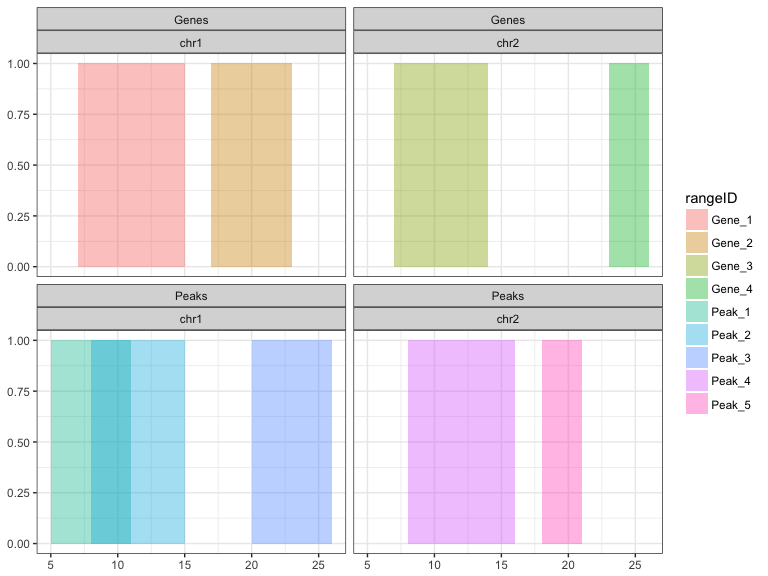
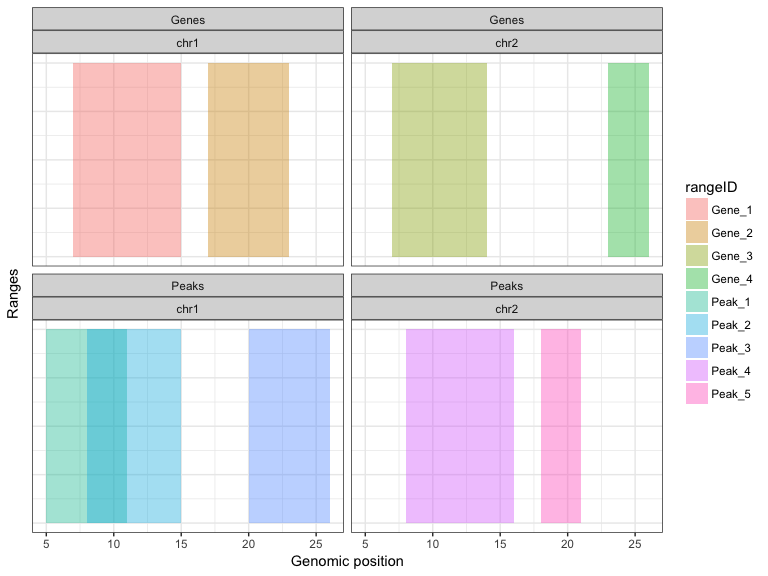
final commit 15th May

diff --git a/combine_tutorial_2017.md b/combine_tutorial_2017.md
@@ -8,10 +8,15 @@ Anna Qualieri
 -   [Load packages](#load-packages)
 -   [Advanced `GenomicRanges`](#advanced-genomicranges)
     -   [Overlaps between two `GRanges` objects](#overlaps-between-two-granges-objects)
+        -   [`findOverlaps()`](#findoverlaps)
+        -   [`countOverlaps()`](#countoverlaps)
     -   [Nearest-methods in `GenomicRanges`](#nearest-methods-in-genomicranges)
+        -   [`nearest()`](#nearest)
+        -   [`distance()`](#distance)
+        -   [`distanceToNearest()`](#distancetonearest)
     -   [`GRangesList`](#grangeslist)
     -   [Subsetting and looping over *GRanges* list](#subsetting-and-looping-over-granges-list)
-        -   [&gt; Challenge](#challenge)
+        -   [Challenge](#challenge)
         -   [Solutions](#solutions)
 -   [`Rtracklayer`](#rtracklayer)
     -   [GTF and GFF](#gtf-and-gff)
@@ -19,7 +24,7 @@ Anna Qualieri
         -   [Solution](#solution)
     -   [Wiggle (WIG) and bigWIG file formats for graphing tracks](#wiggle-wig-and-bigwig-file-formats-for-graphing-tracks)
     -   [`import` only a region of the bigWig file](#import-only-a-region-of-the-bigwig-file)
--   [`lifOver` from different genome releases](#lifover-from-different-genome-releases)
+-   [`liftOver` from different genome releases](#liftover-from-different-genome-releases)
 -   [`Rsamtools`](#rsamtools)
     -   [Input BAM into R](#input-bam-into-r)
     -   [Compute number of reads that falls within 100bp bins](#compute-number-of-reads-that-falls-within-100bp-bins)
@@ -131,7 +136,9 @@ Figure 1 is a simple way of plotting ranges stored into *Granges* object using *
 +     length(genes)))
 > ggplot(data = gr, aes(xmin = start, xmax = end, ymin = 0, 
 +     ymax = 1)) + geom_rect(aes(fill = rangeID), alpha = 0.4) + 
-+     facet_wrap(~Sample + seqnames) + theme_bw()
++     facet_wrap(~Sample + seqnames) + theme_bw() + labs(x = "Genomic position", 
++     y = "Ranges") + theme(axis.ticks.y = element_blank(), 
++     axis.text.y = element_blank())
 ```
 
 ![Graphic representation of the GRanges objects created above.](combine_tutorial_2017_files/figure-markdown_github/unnamed-chunk-6-1.png)
@@ -167,11 +174,11 @@ Overlaps between two `GRanges` objects
 
     ## [1] 4
 
-One can also decide to keep every range distinct and evaluate the overlap for each of them. For this analysis we will keep the overlapping ranges as disticnt regions.
+One can also decide to keep every range distinct and evaluate the overlap for each one of them. For this analysis we will keep the overlapping ranges as disticnt regions.
 
--   `findOverlaps()`
+### `findOverlaps()`
 
-By default looks for overlaps starting from 1bp between a `query` and a `subject`.
+By default looks for overlaps of a minimum of 1bp between a `query` and a `subject`.
 
 ``` r
 > `?`(GenomicRanges::findOverlaps)
@@ -279,7 +286,7 @@ By default looks for overlaps starting from 1bp between a `query` and a `subject
     ##   -------
     ##   queryLength: 5 / subjectLength: 4
 
--   `countOverlaps()`
+### `countOverlaps()`
 
 ``` r
 > `?`(GenomicRanges::countOverlaps)
@@ -301,7 +308,7 @@ By default looks for overlaps starting from 1bp between a `query` and a `subject
 Nearest-methods in `GenomicRanges`
 ----------------------------------
 
--   `nearest()`
+### `nearest()`
 
 ``` r
 > `?`(GenomicRanges::nearest)
@@ -343,7 +350,7 @@ It returns a vector of indeces referring to the nearest neighbour range in *subj
 
     ## [1] 1 1 3 4 5
 
--   `distance()`
+### `distance()`
 
 ``` r
 > `?`(GenomicRanges::distance)
@@ -369,7 +376,7 @@ It returns a vector of indeces referring to the nearest neighbour range in *subj
 
 `distance()` is a symmetric function which means that it requires x and y to have to have the same lenght and if one is shorter than the other one it will be recycled to match the length of the longest. Also, the distance between two consecutive blocks is 0 not 1 which affects the notion of overlaps. If `distance(x, y) == 0` then x and y can be either adjacent or overlapping ranges.
 
--   `distanceToNearest()`
+### `distanceToNearest()`
 
 ``` r
 > `?`(GenomicRanges::distanceToNearest)
@@ -665,11 +672,11 @@ In many cases *GRanges* objects can be subsetted using the same rules that apply
     ## GRanges object with 5 ranges and 1 metadata column:
     ##          seqnames    ranges strand | NumberReads
     ##             <Rle> <IRanges>  <Rle> |   <integer>
-    ##   Peak_1     chr1  [ 5, 11]      * |          42
-    ##   Peak_2     chr1  [ 8, 15]      * |          52
-    ##   Peak_3     chr1  [20, 26]      * |          44
-    ##   Peak_4     chr2  [ 8, 16]      * |          41
-    ##   Peak_5     chr2  [18, 21]      * |          48
+    ##   Peak_1     chr1  [ 5, 11]      * |          57
+    ##   Peak_2     chr1  [ 8, 15]      * |          50
+    ##   Peak_3     chr1  [20, 26]      * |          56
+    ##   Peak_4     chr2  [ 8, 16]      * |          47
+    ##   Peak_5     chr2  [18, 21]      * |          50
     ##   -------
     ##   seqinfo: 3 sequences from an unspecified genome; no seqlengths
 
@@ -682,11 +689,11 @@ In many cases *GRanges* objects can be subsetted using the same rules that apply
     ## GRanges object with 5 ranges and 1 metadata column:
     ##          seqnames    ranges strand | NumberReads
     ##             <Rle> <IRanges>  <Rle> |   <integer>
-    ##   Peak_1     chr1  [ 5, 11]      * |          42
-    ##   Peak_2     chr1  [ 8, 15]      * |          52
-    ##   Peak_3     chr1  [20, 26]      * |          44
-    ##   Peak_4     chr2  [ 8, 16]      * |          41
-    ##   Peak_5     chr2  [18, 21]      * |          48
+    ##   Peak_1     chr1  [ 5, 11]      * |          57
+    ##   Peak_2     chr1  [ 8, 15]      * |          50
+    ##   Peak_3     chr1  [20, 26]      * |          56
+    ##   Peak_4     chr2  [ 8, 16]      * |          47
+    ##   Peak_5     chr2  [18, 21]      * |          50
     ## 
     ## -------
     ## seqinfo: 3 sequences from an unspecified genome; no seqlengths
@@ -701,11 +708,11 @@ In many cases *GRanges* objects can be subsetted using the same rules that apply
     ## GRanges object with 5 ranges and 1 metadata column:
     ##          seqnames    ranges strand | NumberReads
     ##             <Rle> <IRanges>  <Rle> |   <integer>
-    ##   Peak_1     chr1  [ 5, 11]      * |          42
-    ##   Peak_2     chr1  [ 8, 15]      * |          52
-    ##   Peak_3     chr1  [20, 26]      * |          44
-    ##   Peak_4     chr2  [ 8, 16]      * |          41
-    ##   Peak_5     chr2  [18, 21]      * |          48
+    ##   Peak_1     chr1  [ 5, 11]      * |          57
+    ##   Peak_2     chr1  [ 8, 15]      * |          50
+    ##   Peak_3     chr1  [20, 26]      * |          56
+    ##   Peak_4     chr2  [ 8, 16]      * |          47
+    ##   Peak_5     chr2  [18, 21]      * |          50
     ## 
     ## -------
     ## seqinfo: 3 sequences from an unspecified genome; no seqlengths
@@ -719,11 +726,11 @@ In many cases *GRanges* objects can be subsetted using the same rules that apply
     ## GRanges object with 5 ranges and 1 metadata column:
     ##          seqnames    ranges strand | NumberReads
     ##             <Rle> <IRanges>  <Rle> |   <integer>
-    ##   Peak_1     chr1  [ 5, 11]      * |          42
-    ##   Peak_2     chr1  [ 8, 15]      * |          52
-    ##   Peak_3     chr1  [20, 26]      * |          44
-    ##   Peak_4     chr2  [ 8, 16]      * |          41
-    ##   Peak_5     chr2  [18, 21]      * |          48
+    ##   Peak_1     chr1  [ 5, 11]      * |          57
+    ##   Peak_2     chr1  [ 8, 15]      * |          50
+    ##   Peak_3     chr1  [20, 26]      * |          56
+    ##   Peak_4     chr2  [ 8, 16]      * |          47
+    ##   Peak_5     chr2  [18, 21]      * |          50
     ## 
     ## -------
     ## seqinfo: 3 sequences from an unspecified genome; no seqlengths
@@ -775,23 +782,23 @@ In many cases *GRanges* objects can be subsetted using the same rules that apply
     ## GRanges object with 26 ranges and 1 metadata column:
     ##          seqnames    ranges strand | NumberReads
     ##             <Rle> <IRanges>  <Rle> |   <integer>
-    ##   Peak_1     chr1  [ 5, 11]      * |          42
-    ##   Peak_2     chr1  [ 8, 15]      * |          52
-    ##   Peak_3     chr1  [20, 26]      * |          44
-    ##   Peak_4     chr2  [ 8, 16]      * |          41
-    ##   Peak_5     chr2  [18, 21]      * |          48
+    ##   Peak_1     chr1  [ 5, 11]      * |          57
+    ##   Peak_2     chr1  [ 8, 15]      * |          50
+    ##   Peak_3     chr1  [20, 26]      * |          56
+    ##   Peak_4     chr2  [ 8, 16]      * |          47
+    ##   Peak_5     chr2  [18, 21]      * |          50
     ##      ...      ...       ...    ... .         ...
-    ##   Peak_4     chr3  [23, 32]      * |          43
-    ##   Peak_5     chr3  [24, 33]      * |          49
-    ##   Peak_6     chr3  [25, 34]      * |          47
-    ##   Peak_7     chr3  [26, 35]      * |          50
-    ##   Peak_8     chr3  [27, 36]      * |          54
+    ##   Peak_4     chr3  [23, 32]      * |          56
+    ##   Peak_5     chr3  [24, 33]      * |          61
+    ##   Peak_6     chr3  [25, 34]      * |          49
+    ##   Peak_7     chr3  [26, 35]      * |          56
+    ##   Peak_8     chr3  [27, 36]      * |          46
     ##   -------
     ##   seqinfo: 3 sequences from an unspecified genome; no seqlengths
 
 Similar considerations apply for the other functions explored above like *findOverlaps()*, *countOverlaps()*, etc...
 
-#### &gt; Challenge
+#### Challenge
 
 > Using the code below to download the `cpg_islands` object containing the CpG islands for the Human chr21 and the `txdb` gene annotation from `TxDb.Hsapiens.UCSC.hg19.knownGene`.
 
@@ -855,7 +862,7 @@ The **GFF** and **GTF** are the preferred format used to store annotations and t
 The function `rtracklayer::import()` is used to import all the supported data types into a `GRanges` object in R. The function recognises the format from the extension of the file but the argument `format` can be used to expliciclty define it. The function `rtracklayer::export()` works in the same way and it is used to export `GRanges` objects to files.
 
 ``` r
-> # Import
+> # Import/Export with Rtrcaklayer
 > rtracklayer::export(chr21, file.path(dir, "transcriptHg19.gff"))
 > rtracklayer::export(chr21, file.path(dir, "transcriptHg19.gtf"))
 > 
@@ -913,9 +920,9 @@ The function `rtracklayer::import()` is used to import all the supported data ty
 > # 1. Create GRanges object made of 20 ranges
 > exampleGR <- GRanges(seqnames = Rle("chr1", 20), IRanges(start = 1:20, 
 +     width = rbinom(20, size = 100, prob = 0.6)))
-> export(exampleGR, "./exampleGR.gff")
+> export(exampleGR, file.path(dir, "exampleGR.gff"))
 > # 2. Read the file back into R.
-> exampleGR_import <- import("./exampleGR.gff")
+> exampleGR_import <- import(file.path(dir, "exampleGR.gff"))
 > # 3. Print the number of rows of the `GRanges`
 > # object just imported and create a histogram of
 > # the widths of the ranges.
@@ -1032,8 +1039,8 @@ The `import` functions allows to load into a R only a specific regions defined u
 +     which = which_region)
 ```
 
-`lifOver` from different genome releases
-========================================
+`liftOver` from different genome releases
+=========================================
 
 ``` r
 > library(AnnotationHub)
